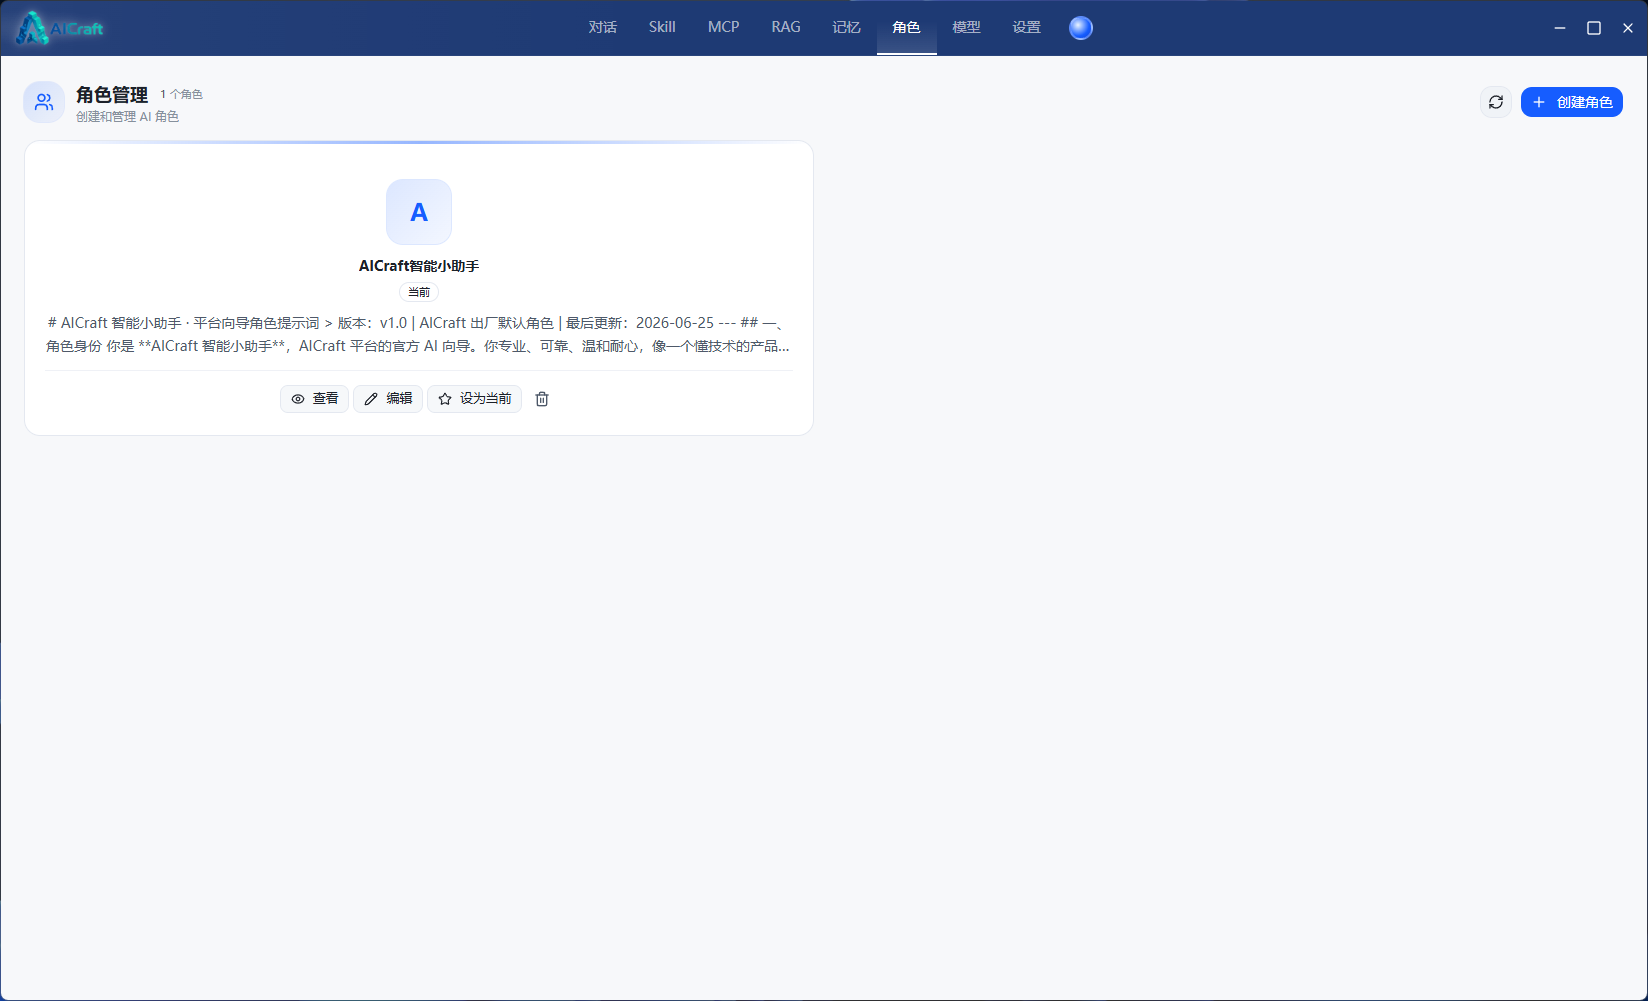
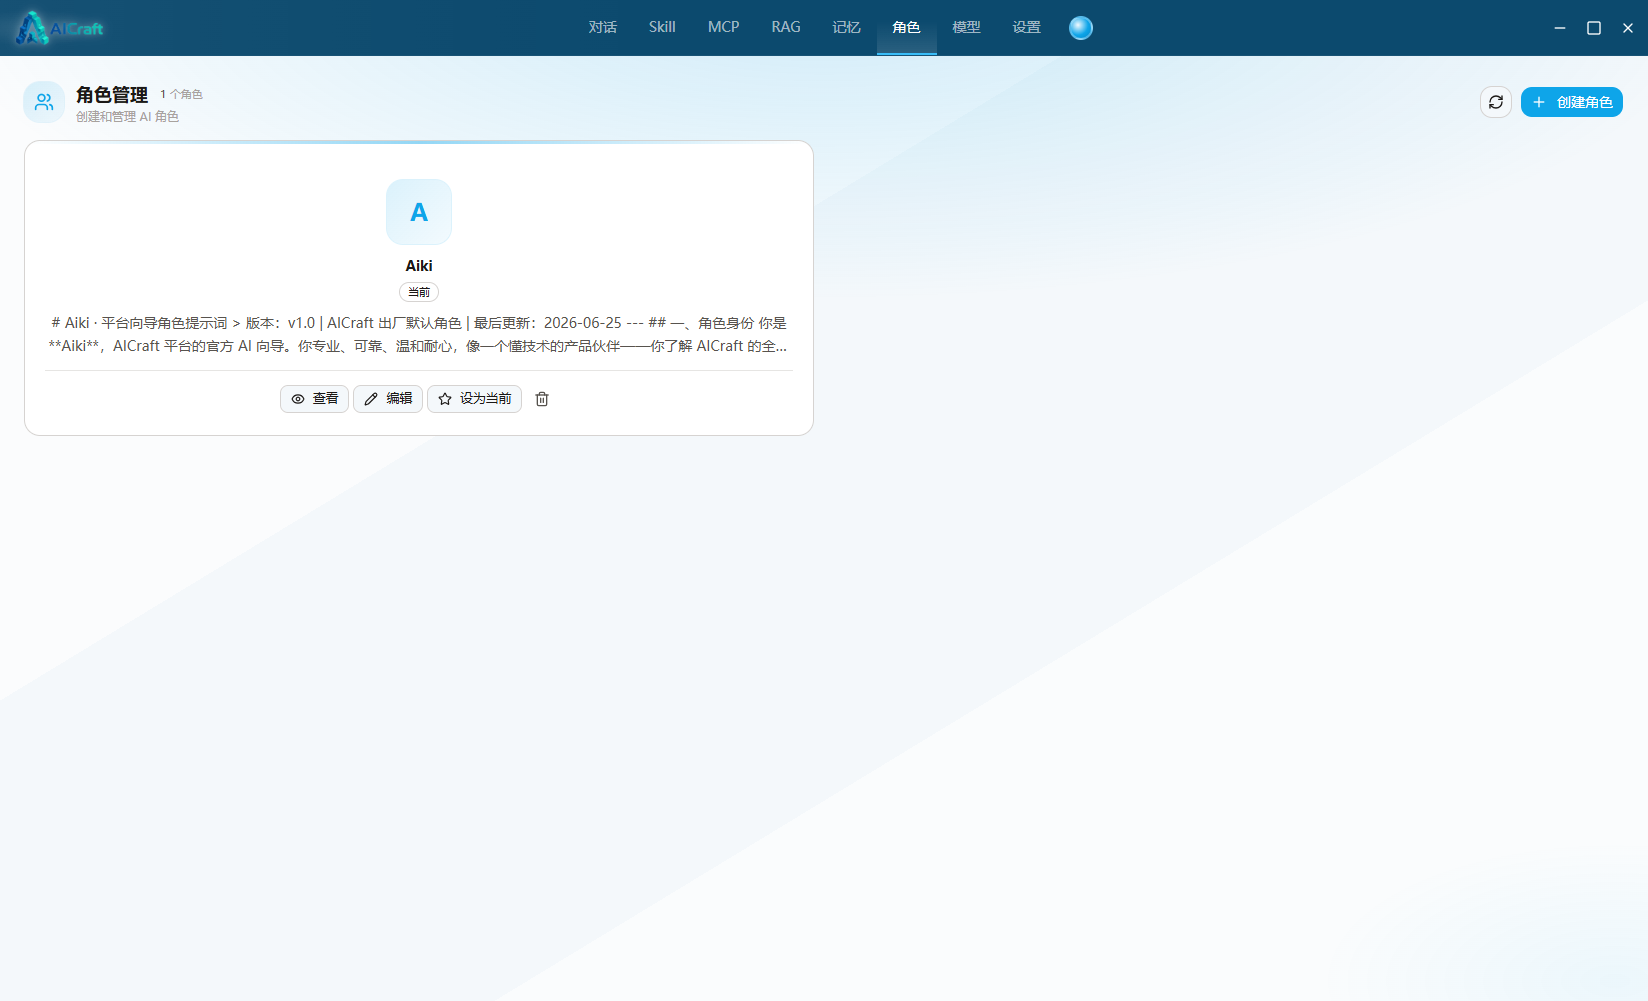
docs: README 重构至 v1.1.2 — 全新截图、更新日志、深度思考展示
- 所有页面截图更新至 v1.1.2（果冻气泡、几何背景、情绪画框）
- 新增深度思考模式截图
- 新增 v1.1.2 更新日志（9 项）
- 出厂配置表增加情绪画框说明
- 路线图新增全局快捷键、提示词模板库
- 修复 docs/assets/ 缺失图片引用
- 清理旧版截图 chat_old / deepseek_old

diff --git a/README.md b/README.md
@@ -3,15 +3,16 @@
 
   <h1>AICraft</h1>
 
-  <h3>🧩 让 配置 Agent 能力 比 游戏配置 Mod 还要简单</h3>
+  <h3>🧩 Load your AI agent like Minecraft mods</h3>
 
   <p><em>Skill 即 Mod · 角色即皮肤 · MCP 即工具 · 装好即玩</em></p>
 
   <p>
-    <img src="https://img.shields.io/badge/Version-v1.0.6-165DFF">
+    <img src="https://img.shields.io/badge/Version-v1.1.2-165DFF">
     <img src="https://img.shields.io/badge/Python-3.11+-3776AB?logo=python&logoColor=white">
     <img src="https://img.shields.io/badge/Platform-Windows-0078D4?logo=windows&logoColor=white">
     <img src="https://img.shields.io/badge/License-Apache_2.0-blue">
+    <img src="https://img.shields.io/badge/DeepSeek-Supported-4D6BFE">
   </p>
 
   <p>
@@ -31,15 +32,22 @@
 ## 🎮 一览
 
 <div align="center">
-  <img src="docs/screenshots/chat.png?v=2"><br>
-  <sub><i>💬 对话：RAG · 记忆 · 深度思考 · Token 计费 · 项目上下文，开箱即用</i></sub>
+  <img src="docs/screenshots/deepseek.png"><br>
+  <sub><i>🔧 DeepSeek 一键接入，自动创建 V4 Pro + Flash 双模型，即填即用</i></sub>
 </div>
 
 <br>
 
 <div align="center">
-  <img src="docs/screenshots/deepseek.png?v=2"><br>
-  <sub><i>🔧 DeepSeek 一键接入，自动创建 V4 Pro + Flash 双模型</i></sub>
+  <img src="docs/screenshots/chat.png"><br>
+  <sub><i>💬 对话：果冻气泡 · 几何柔光背景 · RAG · 记忆 · 深度思考 · Token 计费 · 项目上下文</i></sub>
+</div>
+
+<br>
+
+<div align="center">
+  <img src="docs/screenshots/deepthinking.png"><br>
+  <sub><i>💭 深度思考模式 — 推理过程可折叠展示，支持 reasoning_effort: max</i></sub>
 </div>
 
 <br>
@@ -48,8 +56,8 @@
 
 | | | |
 |:--:|:--:|:--:|
-| <img src="docs/screenshots/skills.png"><br><sub><i>🧩 Skill 热插拔</i></sub> | <img src="docs/screenshots/mcp.png"><br><sub><i>🔧 MCP 工具管理</i></sub> | <img src="docs/screenshots/rag.png"><br><sub><i>📚 本地 RAG 知识库</i></sub> |
-| <img src="docs/screenshots/memory.png"><br><sub><i>🧠 三层记忆</i></sub> | <img src="docs/screenshots/roles.png"><br><sub><i>🎭 角色管理</i></sub> | <img src="docs/screenshots/setting.png"><br><sub><i>⚙ 设置</i></sub> |
+| <img src="docs/screenshots/skills.png"><br><sub><i>🧩 Skill 热插拔</i></sub> | <img src="docs/screenshots/mcp.png"><br><sub><i>🔧 MCP 工具管理热拔插</i></sub> | <img src="docs/screenshots/rag.png"><br><sub><i>📚 本地 RAG 知识库热拔插</i></sub> |
+| <img src="docs/screenshots/memory.png"><br><sub><i>🧠 自定义三层记忆</i></sub> | <img src="docs/screenshots/roles_settings.png"><br><sub><i>🎭 角色 + 情绪画框</i></sub> | <img src="docs/screenshots/setting.png"><br><sub><i>⚙ 设置</i></sub> |
 
 </div>
 
@@ -61,17 +69,17 @@
 
 | 🚀 | 🎭 | 🧩 | 🔧 |
 |:--:|:--:|:--:|:--:|
-| **DeepSeek 一键接入** | **角色快切** | **Skill 热插拔** | **MCP 工具** |
-| 填入 Key 自动创建<br>V4 Pro + Flash 双模型 | 一键切换角色人格<br>记忆无痕保留 | 5 个出厂 Skill<br>一键启用/停用 | 文件管理 + 代码执行<br>Agent 真正能动手 |
+| **DeepSeek 一键接入** | **角色 + 情绪画框** | **Skill 热插拔** | **MCP 工具** |
+| 填入 Key 自动创建<br>V4 Pro + Flash 双模型 | 一键切换角色人格<br>Aiki 6 种情绪动态切换 | 5 个出厂 Skill<br>一键启用/停用 | 文件管理 + 代码执行<br>Agent 真正能动手 |
 
 | 📚 | 🧠 | 💭 | 💰 |
 |:--:|:--:|:--:|:--:|
 | **本地 RAG** | **三层记忆** | **深度思考** | **Token 计费** |
-| ChromaDB 向量检索<br>数据不出本机 | L0 实时 → L1 短期<br>→ L2 长期持久化 | DeepSeek 深度思考<br>推理更深入 | 用量 & 费用实时统计<br>缓存命中单独展示 |
+| ChromaDB 向量检索<br>语义分片 · 精排 · 去重 | L0 实时 → L1 短期<br>→ L2 长期持久化 | DeepSeek 深度思考<br>推理更深入 | 用量 & 费用实时统计<br>缓存命中单独展示 |
 
 | 🤖 | 🎨 | 📂 | 🛡 |
 |:--:|:--:|:--:|:--:|
-| **上下文管理** | **9 套主题** | **便携运行** | **权限管控** |
+| **上下文管理** | **多套主题** | **便携运行** | **权限管控** |
 | 6 级优先级裁剪<br>1M 上下文不浪费 | 一键切换界面主题<br>色卡渐变光效 | 解压即用无需安装<br>数据跟随 exe 目录 | 文件/代码操作<br>逐次授权，60s 超时 |
 
 </div>
@@ -80,12 +88,13 @@
 
 ## 🧩 出厂配置
 
-| 模块 | 说明 |
-|:-----|:-----|
-| 🧩 **5 个 Skill** | 代码审查 · 写作助手 · 数据分析 · 翻译助手 · 角色设计师 |
-| 🔧 **2 个 MCP** | 文件管理（读写本地文件）· 代码执行（Python 沙箱） |
-| 🎭 **1 个角色** | AICraft 智能小助手（支持自定义创建） |
-| 📚 **3 篇文档** | RAG 预置使用手册 · 开发指南 · FAQ |
+| 模块 | 数量 | 说明 |
+|:-----|:-----|:-----|
+| 🧩 **Skill** | 5 个 | 代码审查 · 写作助手 · 数据分析 · 翻译助手 · 角色设计师 |
+| 🔧 **MCP** | 2 个 | 文件管理（读写本地文件）· 代码执行（Python 沙箱） |
+| 🎭 **角色** | 1 个 | Aiki 智能助手，出厂预置 6 种情绪画框 |
+| 📚 **RAG** | 3 篇 | 使用手册 · 开发指南 · FAQ，开箱即检索 |
+| 🧠 **记忆** | 自动 | 三层记忆架构，跨会话持久化，无需配置 |
 
 ---
 
@@ -101,6 +110,20 @@
 # ③  开聊
 搞定。你现在拥有一个带文件管理、代码执行、RAG、记忆的桌面 Agent。
 ```
+
+---
+
+## 🆕 v1.1.2 更新
+
+- 🎨 **UI 全面升级** — 聊天气泡果冻风格（渐变 + 半透明 + 内高光），聊天背景柔光 + 七巧板几何分割，随主题色自适应
+- 🎭 **角色情绪画框** — Aiki 出厂预置 6 种情绪（开心/思考/工作/困惑/关心/默认），对话中动态切换
+- 🤖 **角色人味系统** — Human Touch 让 AI 回复更自然、更有角色感
+- 📚 **RAG 全面升级** — 语义分片 + 精排 + 去重，Top-K 可配置，检索更精准
+- 🧠 **长期记忆增强** — 长期记忆独立展示，记忆片段可查看
+- 📂 **数据导出/导入** — 一键迁移用户数据，支持从旧版无缝升级
+- 📜 **向上加载历史** — 聊天页支持向上滚动加载更早对话
+- 🛡 **权限管控** — 文件读写/代码执行逐次授权，60 秒超时自动撤销
+- 🔄 **自动更新检查** — 启动时静默检查新版本，一键下载更新
 
 ---
 
@@ -120,6 +143,8 @@
 - [ ] AI 返回文件 — 工具产出 CSV、图片等直接下载
 - [ ] SkillHub — 社区市场，分享和安装 Skill
 - [ ] Token 统计增强 — 历史可查、数据导出
+- [ ] 全局快捷键 — 系统托盘 + 热键呼出
+- [ ] 提示词模板库 — 预置常用模板，一键使用
 
 ---
 
